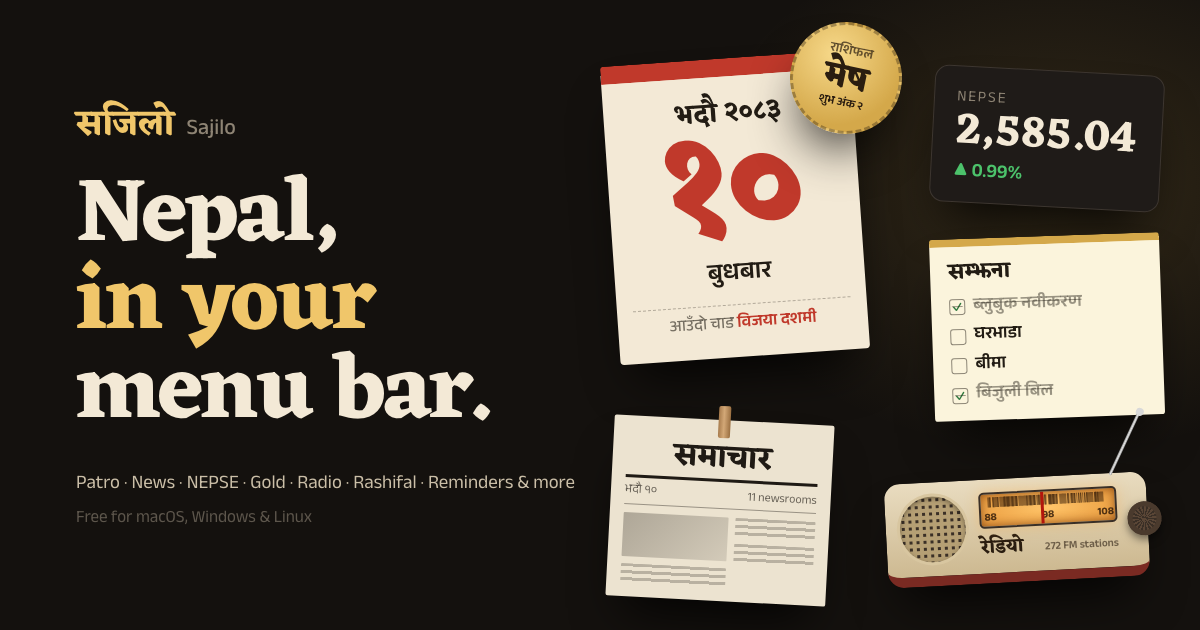
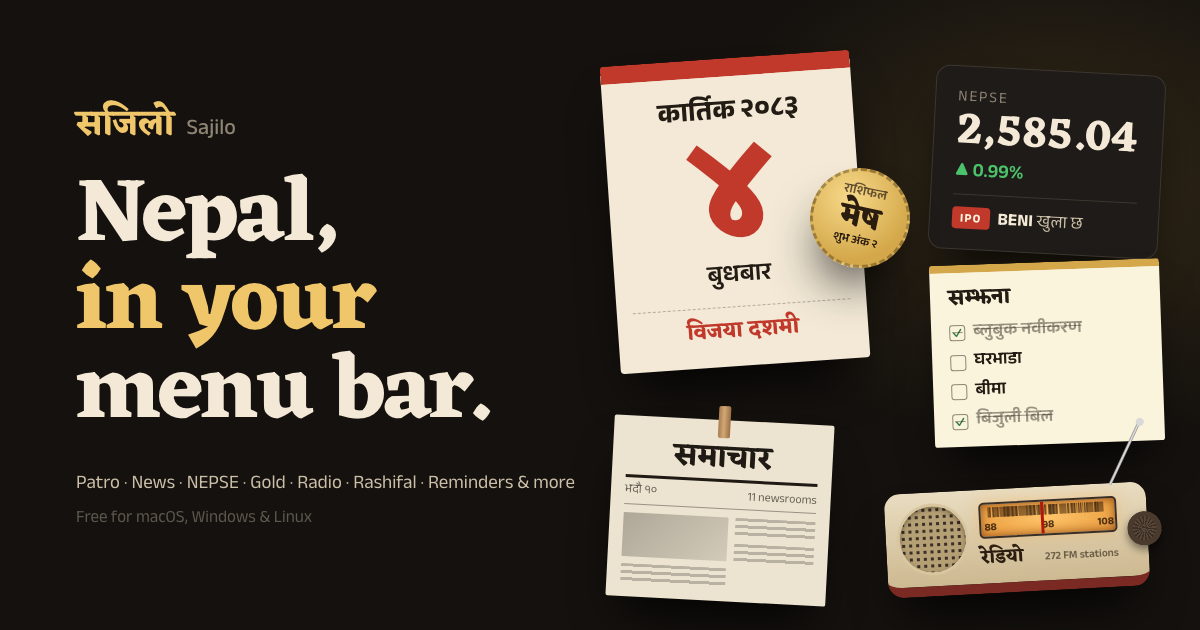
feat(landing): IPO ticket in Stocks, Dashain and IPO alert on the social card
- Stocks: the recorded IPO as a lottery ticket (units, applicants,
  oversubscription) with the closing-day reminder
- Social card: patro leaf on Vijaya Dashami, IPO alert on the NEPSE card,
  sticker moved clear of the top edge
- Month names set in Anek Devanagari, which shapes the reph in कार्तिक

Changed region(s): [[0.555, 0.0302, 0.9867, 0.9651], [0.4933, 0.4825, 0.74, 0.6032]]

diff --git a/apps/landing/src/data/showcase.ts b/apps/landing/src/data/showcase.ts
@@ -127,6 +127,17 @@ export const nepse = {
   gainers: stocks.movers.filter((m) => m.board === "gainers").slice(0, 3),
   losers: stocks.movers.filter((m) => m.board === "losers").slice(0, 3),
 };
+/** The recorded IPO: the first issue open to the general public, with how
+ * many applied against how many units were on offer. */
+const ipoIssue = c.get_ipos.value.issues.find((issue) => issue.issueType === "IPO") ?? null;
+export const ipo = ipoIssue && {
+  name: ipoIssue.name,
+  symbol: ipoIssue.symbol,
+  closeDate: ipoIssue.closeDate,
+  units: Number(ipoIssue.issuedUnits),
+  applied: Number(ipoIssue.appliedUnits),
+  applications: Number(ipoIssue.applicationCount),
+};
 /** The index through the recorded session, a sample a minute. */
 export const nepseIntraday = c.get_nepse_intraday.value.points;
 
